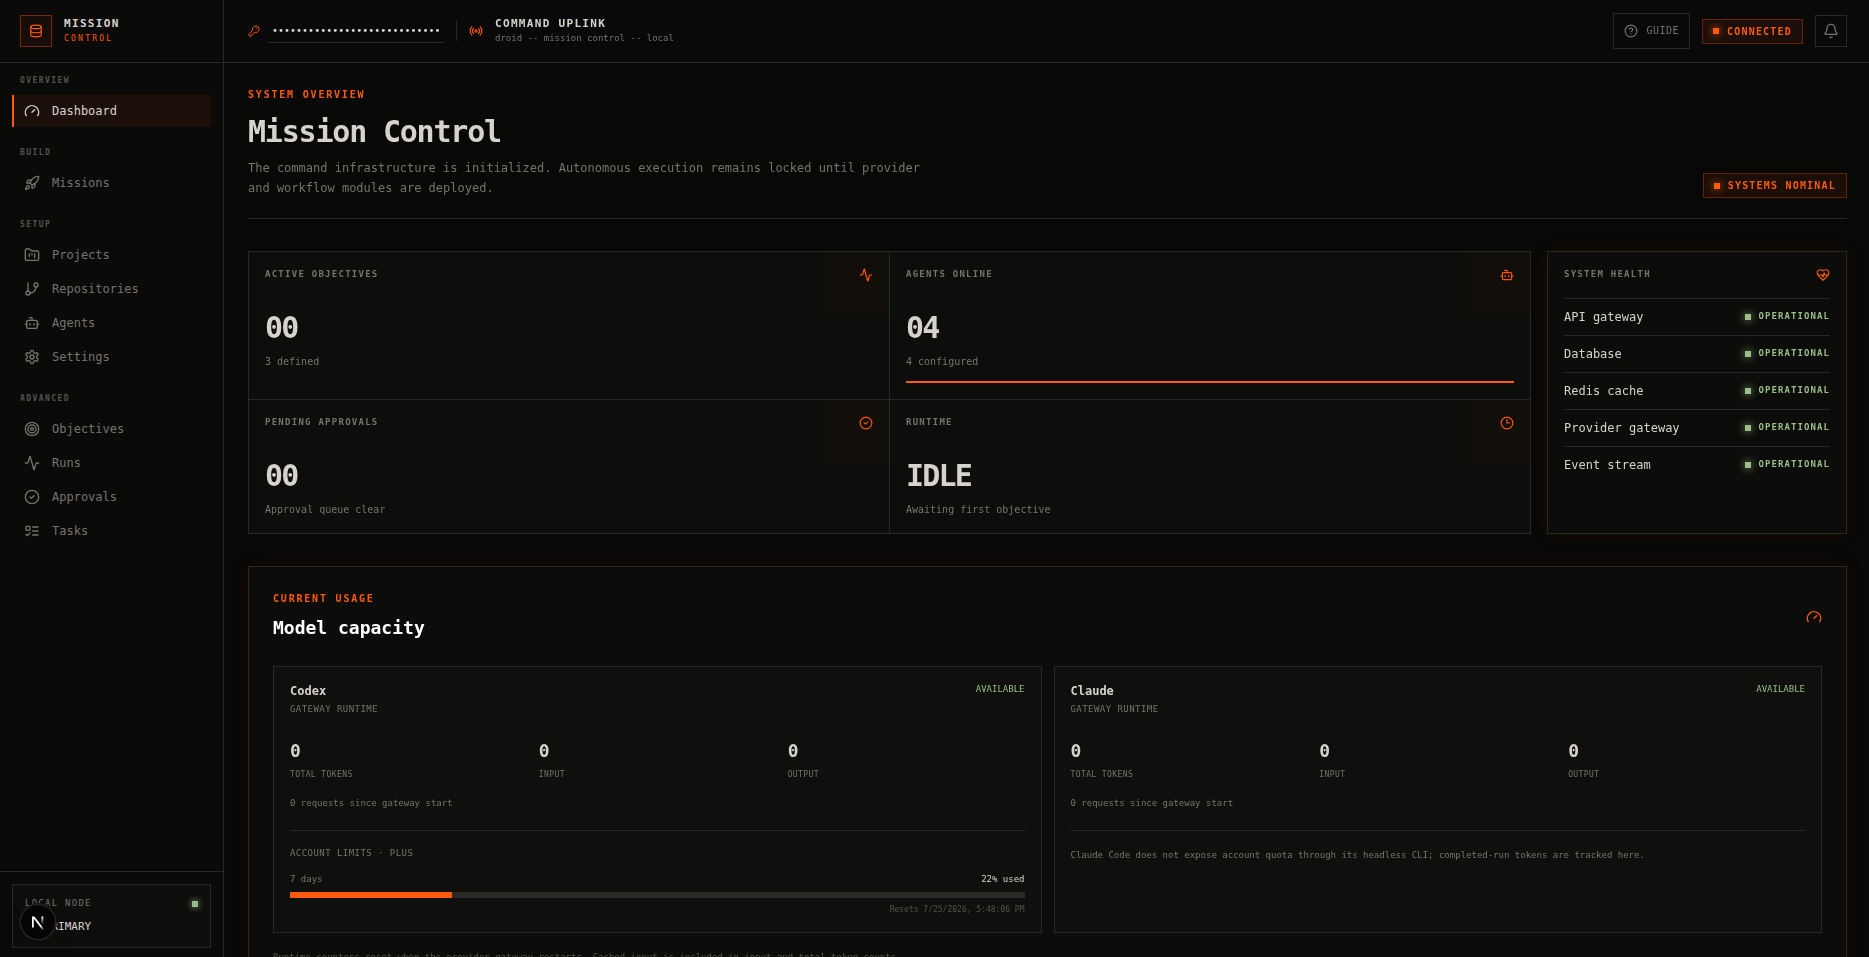
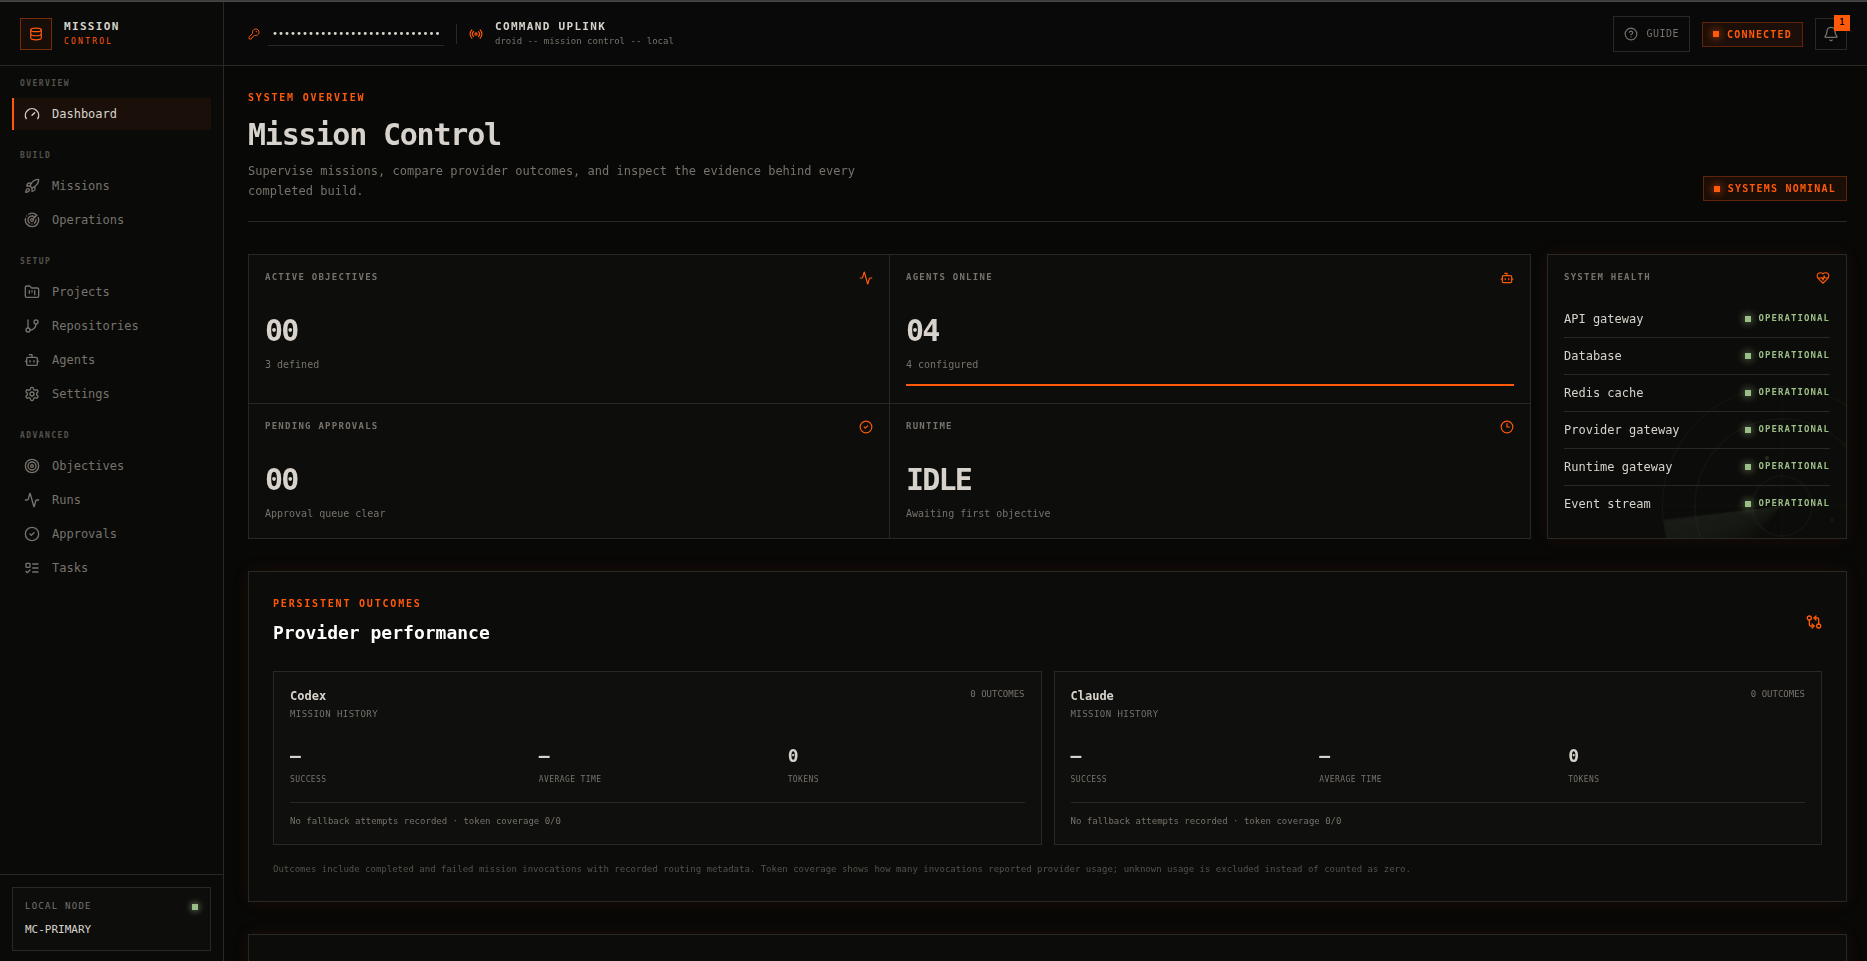
updated the implementation and docs

diff --git a/apps/web/features/onboarding/onboarding-tour.tsx b/apps/web/features/onboarding/onboarding-tour.tsx
@@ -2,6 +2,7 @@
 
 import {
   CheckCircle2,
+  Code2,
   Compass,
   Eye,
   Plug,
@@ -36,7 +37,7 @@ const tourSteps = [
   {
     icon: Rocket,
     title: "Start a mission",
-    body: "Missions is the one-screen guided workflow. Describe what you want to build and press Start mission. A project is created automatically and the planner drafts tasks for your review.",
+    body: "Missions is the one-screen guided workflow. Describe what you want to build and press Start mission. A project is created automatically and the planner drafts tasks for your review. Attach screenshots or UI references and the agents read them as part of the brief.",
     link: { label: "Open Missions", href: "/missions" },
   },
   {
@@ -52,9 +53,15 @@ const tourSteps = [
     link: null,
   },
   {
+    icon: Code2,
+    title: "Take the project with you",
+    body: "The finished project is a normal Git repository on your machine. Open in VS Code loads it in your editor, and Repositories can download it as a zip of the committed files.",
+    link: { label: "Open Repositories", href: "/repositories" },
+  },
+  {
     icon: Compass,
     title: "Explore at your own pace",
-    body: "The Dashboard tracks your setup checklist, and the Advanced sidebar section (Objectives, Runs, Approvals, Tasks) gives step-by-step control. Reopen this guide anytime from the Guide button in the top bar.",
+    body: "The Dashboard tracks your setup checklist, Operations proposes recurring maintenance work for your approval, and the Advanced sidebar section (Objectives, Runs, Approvals, Tasks) gives step-by-step control. Reopen this guide anytime from the Guide button in the top bar.",
     link: null,
   },
 ] as const;

diff --git a/apps/web/features/onboarding/onboarding-tour.test.tsx b/apps/web/features/onboarding/onboarding-tour.test.tsx
@@ -30,8 +30,10 @@ describe("OnboardingTour", () => {
   it("ends on a call to action that opens Missions", () => {
     render(<OnboardingTour />);
 
-    for (let i = 0; i < 5; i += 1) {
-      fireEvent.click(screen.getByRole("button", { name: "Next" }));
+    let next = screen.queryByRole("button", { name: "Next" });
+    while (next) {
+      fireEvent.click(next);
+      next = screen.queryByRole("button", { name: "Next" });
     }
 
     const finish = screen.getByRole("link", { name: "Start building" });

diff --git a/apps/web/app/layout.tsx b/apps/web/app/layout.tsx
@@ -7,7 +7,12 @@ import "./globals.css";
 export const metadata: Metadata = {
   title: "Mission Control",
   description: "Local AI software company command center",
-  icons: { icon: "/icon.svg" },
+  icons: {
+    icon: [
+      { url: "/favicon.ico", sizes: "32x32" },
+      { url: "/icon.svg", type: "image/svg+xml" },
+    ],
+  },
 };
 
 export default function RootLayout({

diff --git a/README.md b/README.md
@@ -4,7 +4,15 @@ Local-first orchestration platform for supervised AI software-development workfl
 
 ## Screenshots
 
+The Dashboard is the system overview: active objectives, agents online, pending approvals, live
+runtime state, per-service health for the API, database, Redis, both gateways and the event stream,
+plus the durable **Provider performance** report comparing Codex and Claude mission outcomes.
+
 ![Dashboard overview](docs/dashboard-page.png)
+
+The Missions screen is the whole guided workflow on one page. Describe the build, optionally attach
+reference images, watch the plan, review, build, and done stages advance, and use the completion
+panel to open the project in VS Code, run its tests, or launch a local preview.
 
 ![Mission screen](docs/mission-page.png)
 
@@ -14,7 +22,10 @@ This repository contains a Next.js dashboard, FastAPI API, Dramatiq workers, Pos
 Redis, migrations, health monitoring, authenticated realtime transport, durable job dispatch,
 an isolated provider gateway for Claude Code and Codex CLI, and a separate credential-free runtime
 gateway for project tests and previews. Approved execution runs can edit registered repositories
-and record Git checkpoint commits through the provider gateway.
+and record Git checkpoint commits through the provider gateway. Every provider invocation and
+project test command runs inside a disposable container created by a token-protected sandbox
+supervisor. Finished projects can be opened in VS Code on the host, run and previewed locally, or
+downloaded as a zip archive.
 
 ## Requirements
 
@@ -52,6 +63,11 @@ to `127.0.0.1` and CORS is restricted to the dashboard origin. Set `AUTO_ADMIN_L
 enter the token manually in the top bar before exposing the service beyond localhost. The
 realtime endpoint authenticates with the same admin token using the WebSocket subprotocol header;
 workflow events are never available to an unauthenticated socket.
+
+The top bar carries two aids for a new install. **Guide** opens a short walkthrough of connecting a
+provider, starting a mission, approving a plan, and verifying or undoing the result; it can be
+reopened at any time. The bell beside it is the notification center, which collects workflow events
+from the realtime stream so an approval or a failure is not missed while another screen is open.
 
 ## Authenticate the provider gateway
 
@@ -97,6 +113,13 @@ The mission is marked complete only when every criterion and every available det
 passes. Failed criteria and their evidence remain on the mission instead of being reported as a
 successful build. Execution failures surface on the same screen with a retry action.
 
+A mission can carry reference images. Use **Attach images** on the new-mission form, or **Add image**
+on an existing mission, to paste from the clipboard, drop files, or pick them from disk. Up to six
+images of at most 5 MB each are kept per mission, and the stored type comes from the file signature
+rather than the browser's declared content type. Planner and developer agents receive the file paths,
+so an error screenshot or a UI reference is read as part of the brief instead of being described in
+prose.
+
 The sections below describe the underlying pieces. The Objectives, Runs, Approvals, and Tasks
 pages remain available under **Advanced** in the sidebar for step-by-step control and detailed
 timelines; nothing about their behavior changed.
@@ -109,9 +132,11 @@ Set `REPOSITORY_HOST_ROOT` in `.env` to the host directory containing the reposi
 docker compose up -d --build
 ```
 
-Open <http://localhost:3000/projects> (the admin session is established automatically in local development) and create a project. Then open <http://localhost:3000/repositories>, choose the project, and register the relative Git repository path.
+Open <http://localhost:3000/projects> (the admin session is established automatically in local development) and create a project. Use this page to record project-specific instructions and to override the test and app commands.
 
 ![Projects page](docs/project-page.png)
+
+Then open <http://localhost:3000/repositories>. This page is optional advanced setup, because **Build project** creates a repository for you when a project has none. It offers two paths: **Create a project repository** initializes a new Git repository under the repository root, and **Register an existing repository** attaches a path relative to that root (for example, `my-app`). Each registered repository lists its host path with a copy button, and carries actions to open it in VS Code, download it as a zip, rename it or change its default branch, and unregister it.
 
 ![Repositories page](docs/repository-page.png)
 
@@ -168,7 +193,9 @@ assignment, task limits, provider timeout, output retention, repository-write au
 and global coding standards. Each assigned agent profile controls the provider and model used
 for its execution tasks. Administrative and gateway tokens remain environment-managed secrets.
 Provider sign-in is available from **Settings**; the resulting credentials live in the gateway's
-Docker volumes and are intentionally never stored through the dashboard.
+Docker volumes and are intentionally never stored through the dashboard. The **Disposable execution
+containers** panel reports sandbox supervisor health, the number of active containers, and the
+memory, CPU, and process limits applied to every sandbox.
 
 ![Settings page](docs/settings-page.png)
 
@@ -295,6 +322,11 @@ maintenance checks and the findings they produce. Continuous operations is **off
 is enabled in **Settings → Continuous operations**; until then, schedules never run on their own,
 though you can still trigger any one with **Run**.
 
+![Operations page](docs/operations-page.png)
+
+The screen shows how many findings await review, how many schedules are enabled, and whether
+continuous operations is currently allowed to run unattended.
+
 A schedule binds a check to a project on a fixed cadence. The available checks are failing-test
 diagnosis, dependency maintenance, security checks (`npm audit` and committed-secret scanning),
 repository health (missing `.gitignore`, large tracked files), documentation drift, GitHub issue
@@ -315,11 +347,39 @@ platform, so no new infrastructure is required. Detector executions and their re
 for observability, and any provider reasoning (diagnosis, repair proposals, triage) is attributed
 as agent invocations in the usual usage analytics.
 
-## Run project tests and preview the app
+## Open, run, and download the built project
 
-After a mission has built a repository, its completion panel includes **Run tests** and
-**Run app**. Test runs are queued on the worker, executed inside the credential-free runtime
-gateway against
+After a mission has built a repository, its completion panel includes **Open in VS Code**,
+**Run tests**, and **Run app**.
+
+### Open the project in VS Code
+
+**Open in VS Code** appears on the mission completion panel and on every entry of the Repositories
+page. It opens the repository's real path on your machine using the `vscode://file/...` protocol
+handler, so the editor loads the working tree directly rather than a copy. It needs VS Code
+installed on the host and the browser allowed to hand the link to it; the first click usually asks
+for that permission once.
+
+The button is shown only when Mission Control can resolve a host path for the repository. That
+mapping comes from `REPOSITORY_HOST_ROOT` (absolute, or relative to `MISSION_CONTROL_HOST_ROOT`,
+which Compose sets to the directory you start the stack from). The default `./repositories` works
+without any change. If the value is missing or the repository resolves outside the configured root,
+the action is hidden instead of producing a broken link, and the Repositories page still shows the
+container path so you can copy it.
+
+### Download the project
+
+The download action on the Repositories page returns a zip of the repository as committed at `HEAD`,
+named `<repository>-<short-sha>.zip`. It is produced with `git archive`, so untracked and ignored
+files, along with the `.git` directory itself, are excluded; what you get is the committed state,
+not the working tree. The same archive is available from
+`GET /api/v1/repositories/{repository_id}/archive` with the admin token. Because Mission Control
+saves a Git checkpoint after every completed task, the repository on disk stays the full history,
+and normal Git tooling remains the way to move a project somewhere else.
+
+### Run tests and preview the app
+
+Test runs are queued on the worker, executed inside the credential-free runtime gateway against
 the writable repository mount, and shown on the mission as a live rolling output excerpt. A
 nonzero exit code is recorded as a failed test run without changing the mission or build status.
 The runtime service starts in `runtime-only` mode, where provider execution, login, and Git
@@ -377,9 +437,12 @@ database/provider `control-plane`. Egress permission applies to every runtime te
 while that Compose configuration is active. Stop the stack with `make down` before switching modes;
 return to default-deny mode with `make down` followed by `make up`.
 
-The runtime gateway is still a long-lived container rather than a fresh container per command.
-Per-run containers and per-mission network policies remain future hardening. Adjust the resource
-values in `compose.yaml` when a trusted project legitimately needs more capacity.
+Both gateways run with `SANDBOX_REQUIRED`, so provider invocations and test commands are refused
+rather than falling back to in-gateway execution when the sandbox supervisor is unavailable. The
+gateways themselves remain long-lived containers, and preview processes still run inside the runtime
+gateway so their localhost port stays reachable. Per-mission network policies remain future
+hardening. Adjust the resource values in `compose.yaml` when a trusted project legitimately needs
+more capacity.
 
 ## Upgrade an existing checkout
 
@@ -466,6 +529,11 @@ Completion metadata reports timeout and client-disconnect cancellation separatel
 - Continuous operations is off by default and strictly propose-only: scheduled maintenance checks
   create findings that require explicit approval before any objective is planned or executed.
 - Git checkpoints make completed and failed task changes attributable and reversible.
+- Repository archives and host-path resolution are read-only and confined to the configured
+  repository root. Opening a project in VS Code is a client-side protocol link; the API never
+  launches an editor.
+- Mission image attachments are validated by file signature rather than the declared content type,
+  and are capped per mission in count and size.
 
 ## Common commands
 
